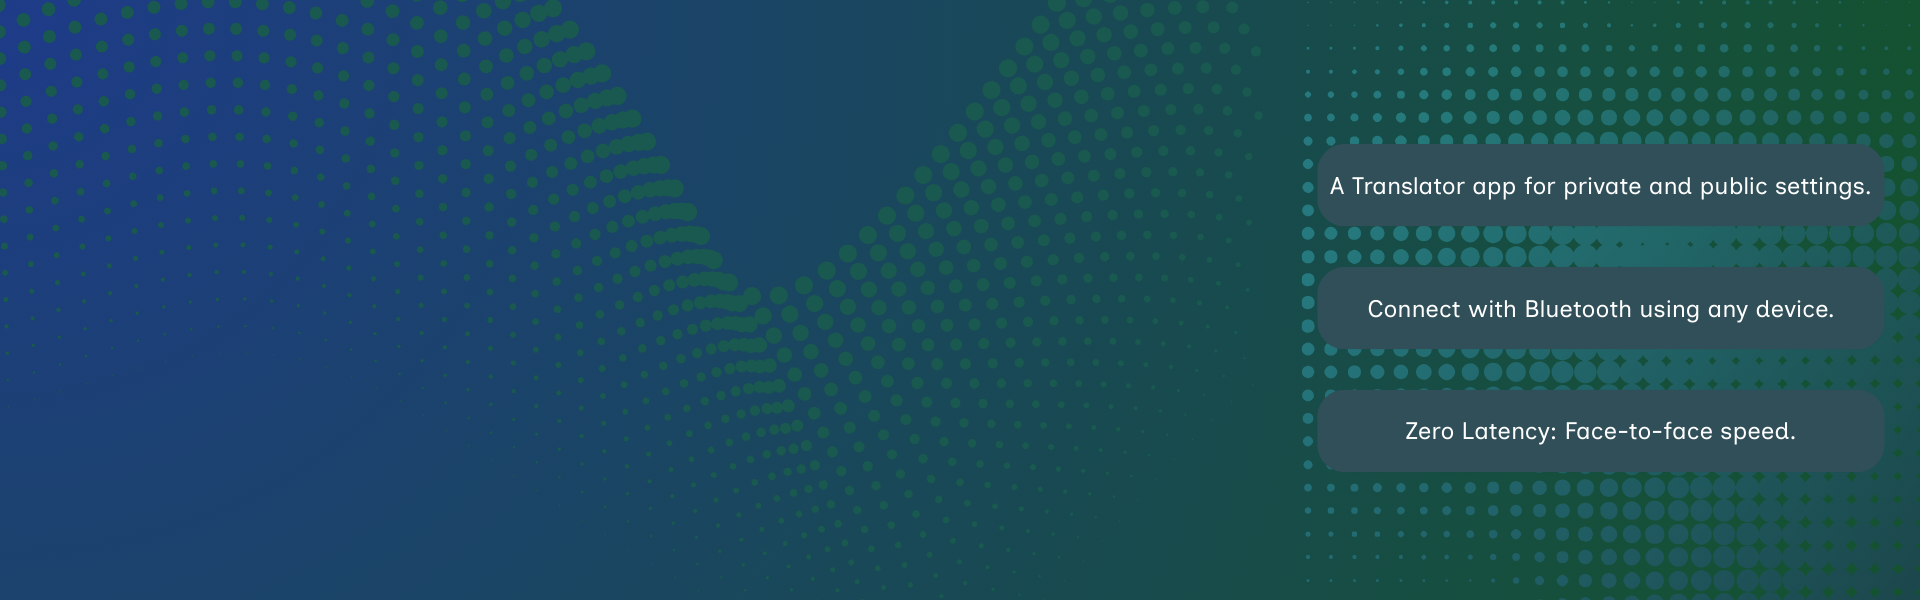
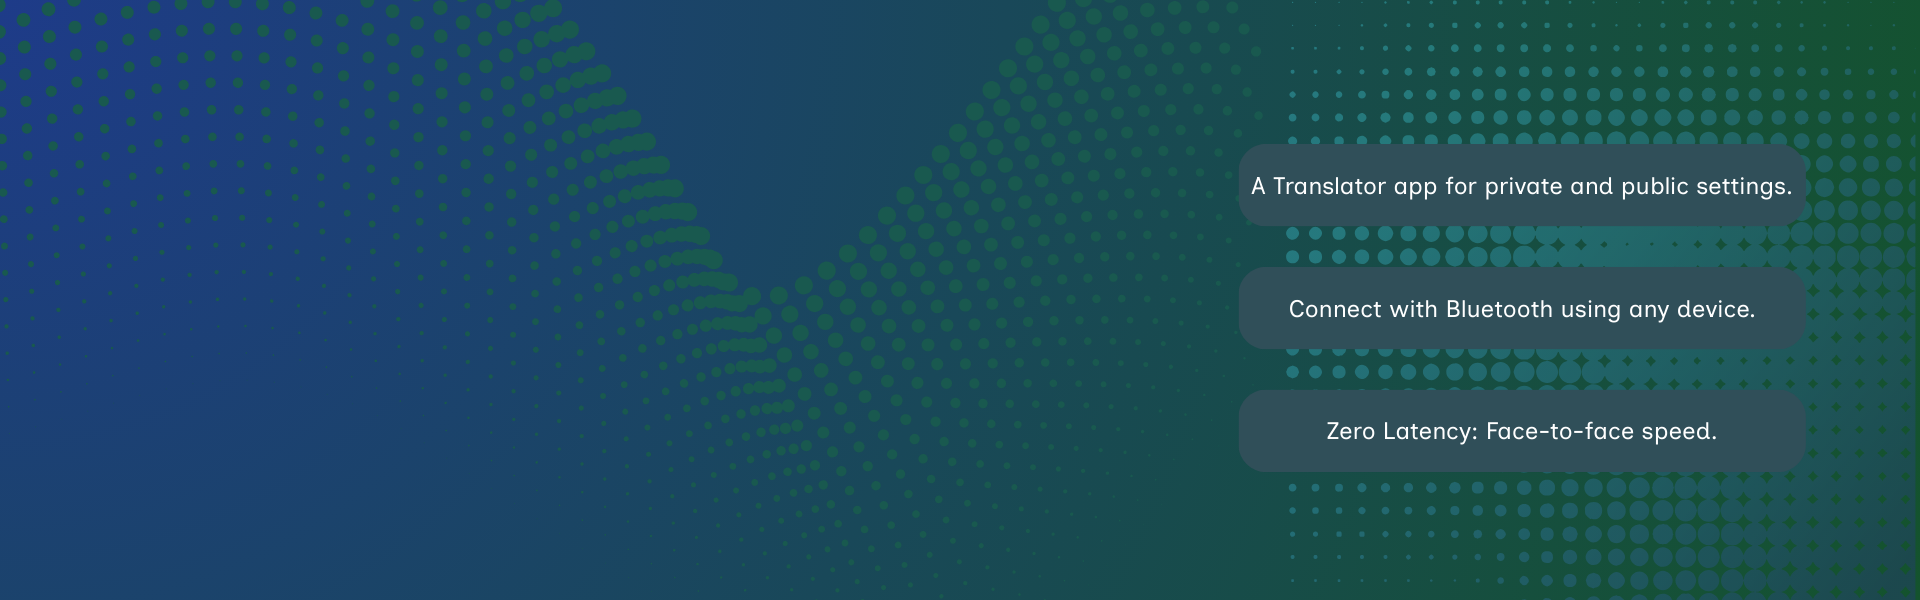
img update

Changed region(s): [[0.625, 0.03, 1.0, 1.0]]

diff --git a/CapstoneProject Site Year 2/reviews.html b/CapstoneProject Site Year 2/reviews.html
@@ -152,7 +152,7 @@ document.addEventListener('DOMContentLoaded', function() {
                     </div>
 					<div class="bg-white dark:bg-gray-800 shadow-md rounded-lg p-6 border border-gray-200 dark:border-gray-700">
                         <div class="flex items-center gap-4 mb-4">
-                            <img src="images/tristianpfp.png" alt="John Smith" class="rounded-full w-16 h-16">
+                            <img src="images/temp_logo.png" alt="Temp Logo" class="rounded-full w-16 h-16">
                             <div>
                                 <h4 class="text-lg font-semibold text-gray-900 dark:text-white">Danielius Karalius</h4>
                                 <p class="text-gray-500 dark:text-gray-400">Temp</p>
